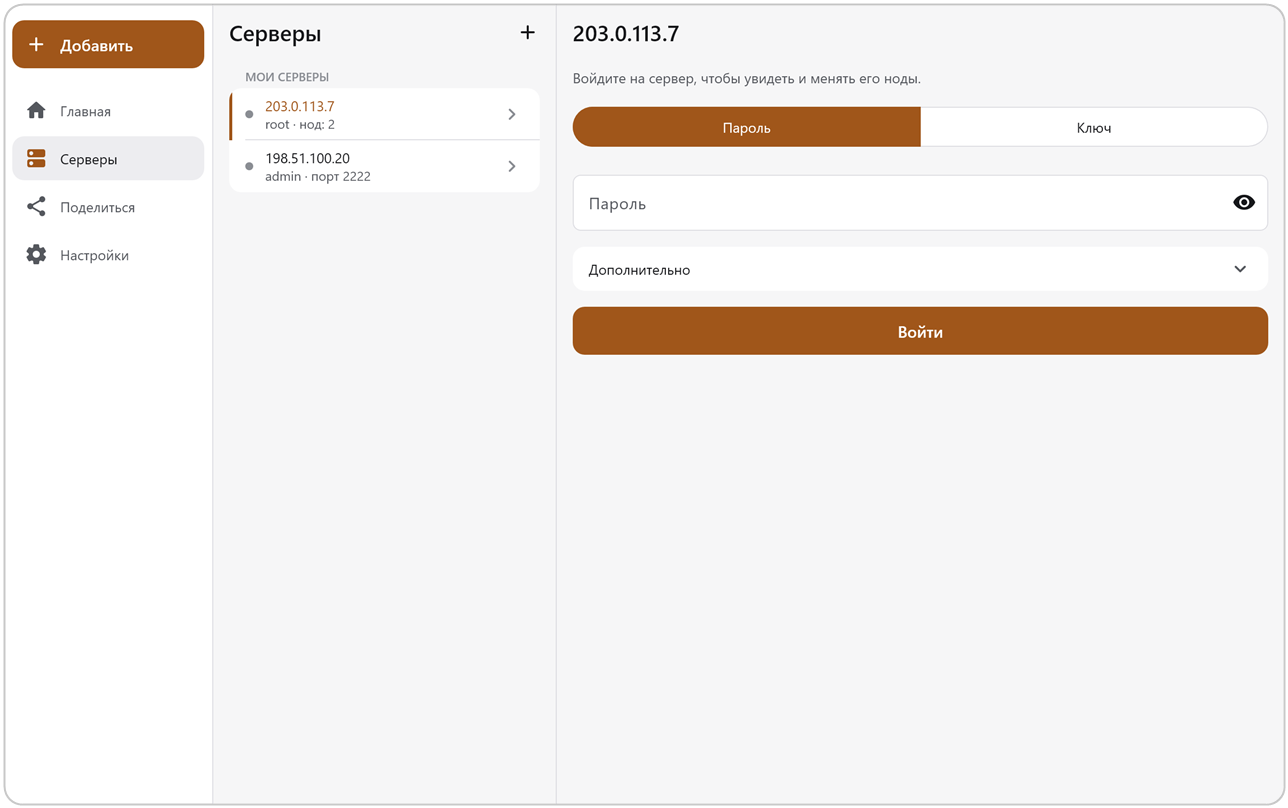
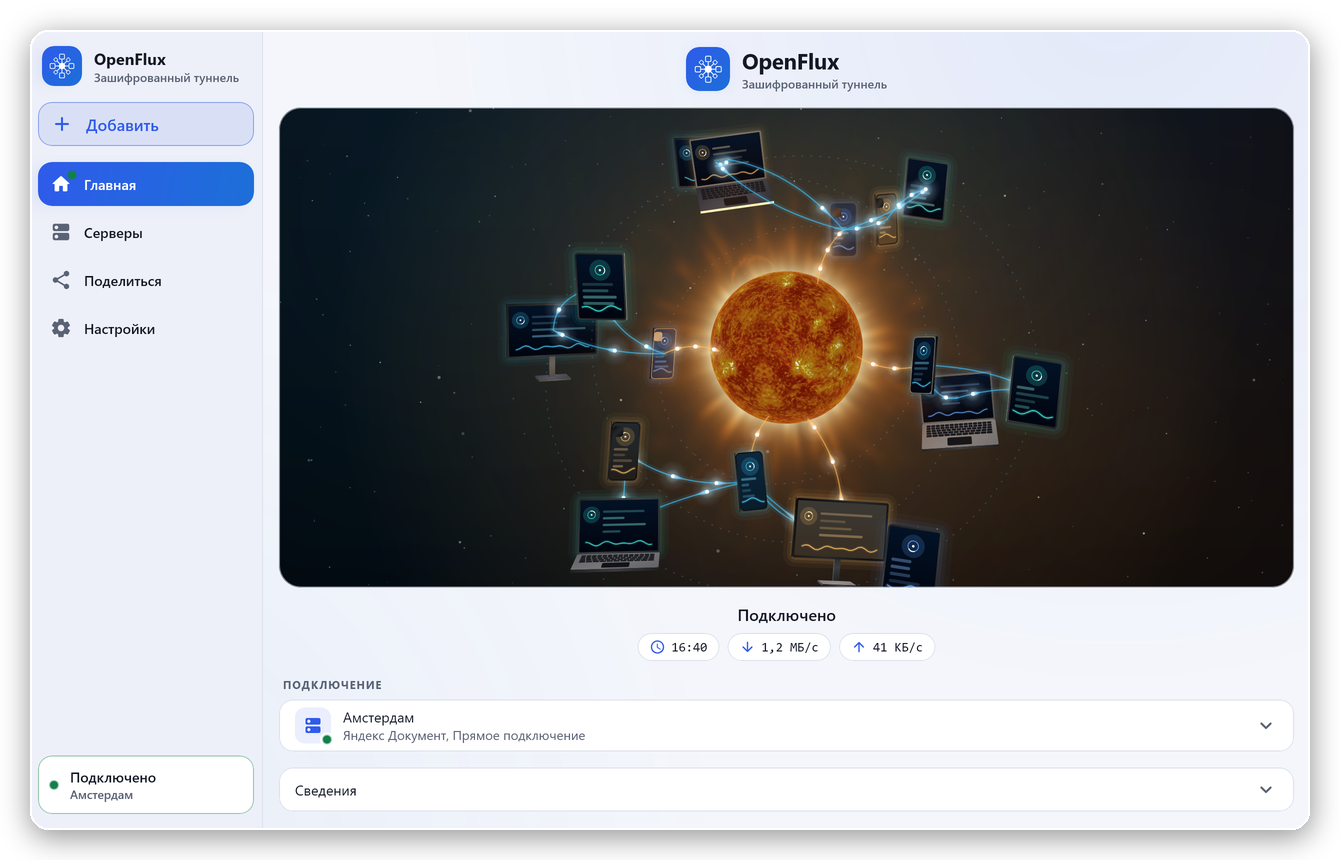
README: the new look, the Moon and Sun switch with an animation, more pictures (shared ef1e622)

diff --git a/README.ru.md b/README.ru.md
@@ -24,15 +24,28 @@
 </p>
 
 <p align="center">
-  <img src="docs/images/phones.png" alt="OpenFlux на телефоне: подключение, серверы, транспорты ноды, это устройство как нода" width="900">
+  <img src="docs/images/phones.png" alt="OpenFlux на телефоне: Главная с подключением, серверы, транспорты ноды, настройки" width="900">
 </p>
 
 ## Что это
 
 OpenFluxAndroid — приложение для Android на базе [OpenFlux](https://github.com/OpenFluxTeam/OpenFlux). Ядро встроено в APK и работает внутри приложения. Трафик идёт через **транспорт**: документ на веб-сервисе (Яндекс, Mail.ru, cups.online, Avito, Телемост, MAX) или обычное TCP-соединение с вашей нодой. В профиле может быть несколько транспортов; когда один перестаёт работать, приложение переходит на следующий по приоритету.
 
+## Выключатель
+
+<p align="center">
+  <img src="docs/images/switch.gif" alt="Выключатель: Луна трескается огнём и сгорает в Солнце, устройства просыпаются и связываются, потом всё возвращается" width="460">
+</p>
+
+Кнопка подключения — маленькая вселенная. Пока приложение выключено, в центре медленно вращается Луна, а вокруг неё дрейфуют телефоны, планшеты, ноутбуки и мониторы с тёмными экранами. Нажмите: пока подключение устанавливается, кора Луны трескается огнём; когда оно готово, Луна сгорает в Солнце, экраны загораются по мере того, как до них доходит его свет, устройства выстраиваются на орбиты, а светящиеся связи соединяют их друг с другом и с Солнцем — по ним бежит трафик, тем быстрее, чем больше его идёт. Отключитесь — всё проиграется обратно; неудачное подключение вспыхнет красным. Луна и Солнце настоящие: карта Луны NASA LRO и поверхность Солнца со спутника Solar Dynamics Observatory, их рисует шейдер на видеокарте.
+
+<p align="center">
+  <img src="docs/images/home-states.png" alt="Главная: выключено, подключение, подключено" width="860">
+</p>
+
 ## Возможности
 
+- **Новый облик.** Тёмно-синий фон и один синий акцент, как в 2.x, мягкий свет и движение повсюду; тёмная и светлая темы.
 - **Системный VPN или локальный SOCKS5-прокси.** VPN несёт весь телефон; прокси — для приложений, которые вы направляете на него сами.
 - **Несколько транспортов в одном профиле**, у каждого свой приоритет и сеть, по которой ему можно ходить (мобильная или Wi-Fi).
 - **Шифрование.** AES-256-GCM от края до края с вашим ключом: сервис, который несёт трафик, его не видит.

diff --git a/README.md b/README.md
@@ -24,15 +24,28 @@
 </p>
 
 <p align="center">
-  <img src="docs/images/phones.png" alt="OpenFlux on a phone: connect, servers, a node's transports, this device as a node" width="900">
+  <img src="docs/images/phones.png" alt="OpenFlux on a phone: Home connected, servers, a node's transports, settings" width="900">
 </p>
 
 ## What it is
 
 OpenFluxAndroid is the Android app of [OpenFlux](https://github.com/OpenFluxTeam/OpenFlux). The core is built into the APK and runs inside the app. Traffic goes through a **transport**: a document on a web service (Yandex, Mail.ru, cups.online, Avito, Telemost, MAX) or a plain TCP connection to your own node. A profile can hold several transports; the app switches between them by priority when one stops working.
 
+## The switch
+
+<p align="center">
+  <img src="docs/images/switch.gif" alt="The switch: the Moon cracks with fire and burns into the Sun, the devices wake and connect, then it all goes back" width="460">
+</p>
+
+The connect button is a small universe. While the app is off, the Moon turns slowly in the middle and phones, tablets, laptops and monitors drift round it with their screens dark. Press it: while the connection is being set up, the Moon's crust cracks with fire; once it is up, the Moon burns into the Sun, the screens light up as its light reaches them, the devices settle into orbits, and links of light join them to each other and to the Sun, with traffic running along them, faster when the connection carries more. Disconnect and it all plays back; a failed connection flares red. The Moon and the Sun are real: NASA's LRO map of the Moon and the Sun's surface seen by the Solar Dynamics Observatory, drawn by a shader on the GPU.
+
+<p align="center">
+  <img src="docs/images/home-states.png" alt="Home: off, connecting, connected" width="860">
+</p>
+
 ## Features
 
+- **A new look.** Deep navy and one blue accent, as in 2.x, with soft light and motion everywhere; dark and light themes.
 - **A system VPN or a local SOCKS5 proxy.** The VPN carries the whole phone; the proxy is for apps you point at it yourself.
 - **Several transports in one profile**, each with a priority and the network it may use (mobile data, Wi-Fi). When the best one fails, the next takes over.
 - **Encryption.** AES-256-GCM end to end with a key you set; a profile with a key hides the traffic from the service that carries it.
